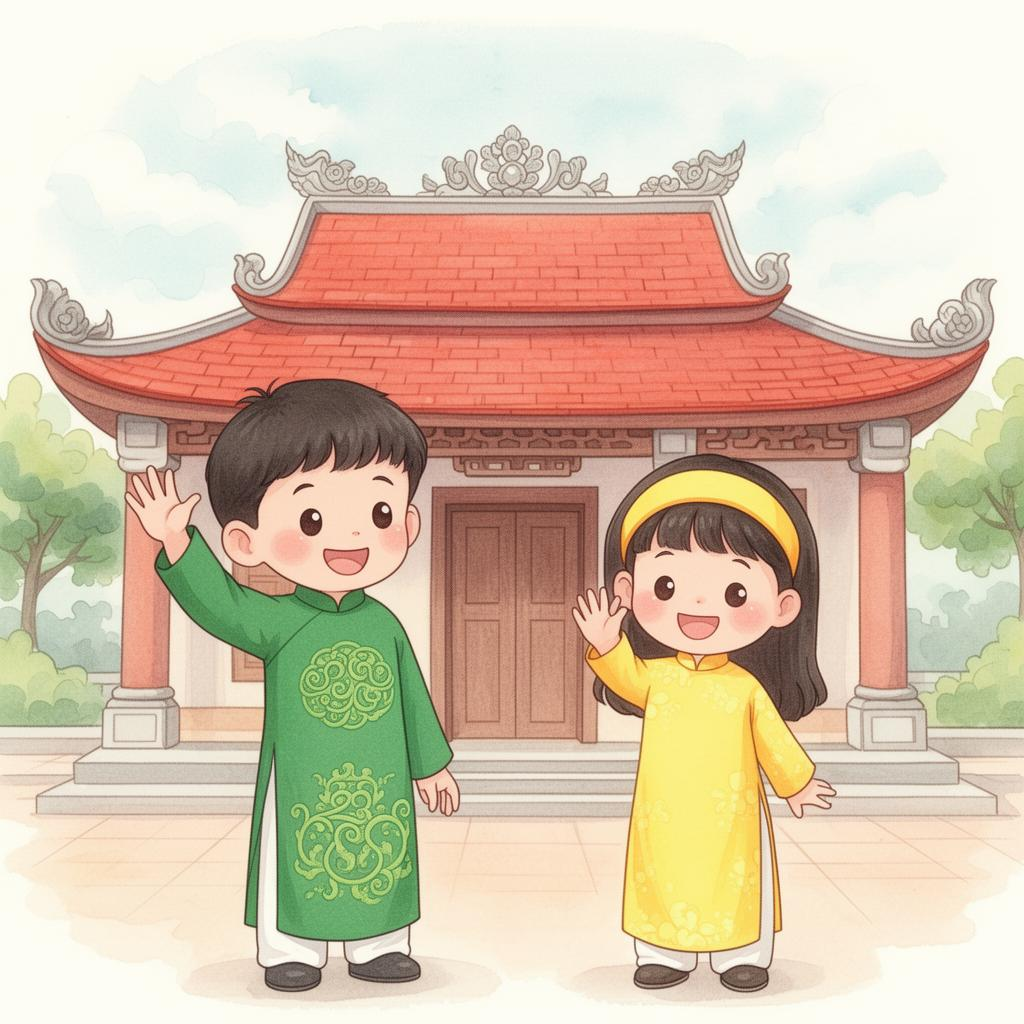
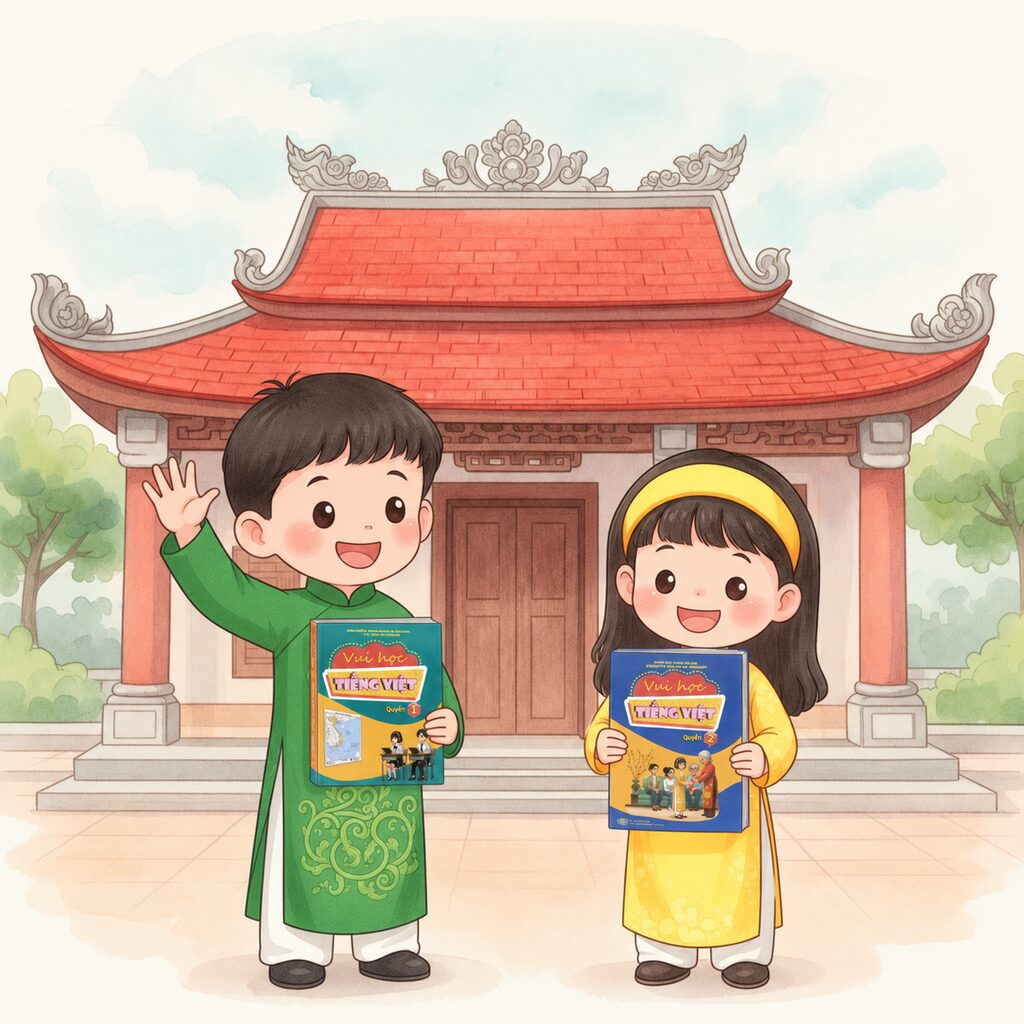
Refresh hero image and trim footer
Swap in the new áo dài illustration for the landing hero, promote
"Lời cảm ơn" to the section heading (dropping "Thân gửi các em"), and
remove the social links and newsletter column from the footer.

diff --git a/src/components/Footer.tsx b/src/components/Footer.tsx
@@ -1,4 +1,3 @@
-import { Facebook, Youtube, Twitter, Music2, Send } from "lucide-react";
 import boLogo from "@/assets/uy-ban.png";
 import cvcecLogo from "@/assets/cvcec.jpg";
 import { Logo } from "@/components/Logo";
@@ -9,42 +8,12 @@ export function Footer() {
   return (
     <footer className="mt-8 bg-navy text-white/70">
       <div className="py-12">
-        <div className="mx-auto grid max-w-7xl grid-cols-1 gap-10 px-4 sm:px-6 md:grid-cols-4">
+        <div className="mx-auto grid max-w-7xl grid-cols-1 gap-10 px-4 sm:px-6 md:grid-cols-3">
           <div className="flex flex-col gap-4">
             <Logo size="sm" light />
             <p className="text-sm leading-relaxed text-white/60">
               Nền tảng học tiếng Việt dành cho trẻ em Việt Nam tiểu học ở trong và ngoài nước.
             </p>
-            <div className="flex items-center gap-3">
-              <a
-                href="#"
-                aria-label="Facebook"
-                className="grid h-8 w-8 place-items-center rounded-full bg-white/10 text-white/80 transition-transform hover:scale-110 hover:bg-white/20"
-              >
-                <Facebook className="h-4 w-4" strokeWidth={2} />
-              </a>
-              <a
-                href="#"
-                aria-label="YouTube"
-                className="grid h-8 w-8 place-items-center rounded-full bg-white/10 text-white/80 transition-transform hover:scale-110 hover:bg-white/20"
-              >
-                <Youtube className="h-4 w-4" strokeWidth={2} />
-              </a>
-              <a
-                href="#"
-                aria-label="Twitter/X"
-                className="grid h-8 w-8 place-items-center rounded-full bg-white/10 text-white/80 transition-transform hover:scale-110 hover:bg-white/20"
-              >
-                <Twitter className="h-4 w-4" strokeWidth={2} />
-              </a>
-              <a
-                href="#"
-                aria-label="TikTok"
-                className="grid h-8 w-8 place-items-center rounded-full bg-white/10 text-white/80 transition-transform hover:scale-110 hover:bg-white/20"
-              >
-                <Music2 className="h-4 w-4" strokeWidth={2} />
-              </a>
-            </div>
             <div className="flex items-center gap-3">
               <img
                 src={boLogo}
@@ -85,25 +54,6 @@ export function Footer() {
             </ul>
           </div>
 
-          <div>
-            <h4 className="mb-2 font-display text-sm font-extrabold text-white">
-              Kết nối với chúng tôi
-            </h4>
-            <p className="mb-4 text-sm text-white/60">
-              Nhận tin tức và tài liệu mới nhất cho bé yêu của bạn.
-            </p>
-            <div className="flex flex-col gap-2 lg:flex-row">
-              <input
-                type="email"
-                placeholder="Nhập email của bạn"
-                className="w-full rounded-full border border-white/20 bg-white/10 px-4 py-2 text-sm text-white placeholder:text-white/40 focus:border-primary focus:outline-none lg:flex-1"
-              />
-              <button className="flex shrink-0 items-center justify-center gap-1.5 rounded-full bg-primary px-4 py-2 text-sm font-bold text-white transition-all hover:bg-primary/90">
-                <Send className="h-3.5 w-3.5" strokeWidth={2.5} />
-                <span>Đăng ký</span>
-              </button>
-            </div>
-          </div>
         </div>
       </div>
 

diff --git a/src/components/tabs/InfoTab.tsx b/src/components/tabs/InfoTab.tsx
@@ -115,12 +115,9 @@ export function InfoTab() {
             alt=""
             className="mx-auto mb-4 h-14 w-14 object-contain"
           />
-          <span className="inline-flex items-center gap-2 text-xs font-bold uppercase tracking-widest text-primary">
-            <Info className="h-4 w-4" strokeWidth={2.5} />
+          <h3 className="inline-flex items-center gap-2 font-display text-2xl font-extrabold text-navy sm:text-3xl">
+            <Info className="h-6 w-6 text-primary sm:h-7 sm:w-7" strokeWidth={2.5} />
             Lời cảm ơn
-          </span>
-          <h3 className="mt-2 font-display text-2xl font-extrabold text-navy sm:text-3xl">
-            Thân gửi các em
           </h3>
           <p className="mx-auto mt-4 max-w-2xl text-[15px] leading-relaxed text-muted-foreground sm:text-base">
             Ban quản lý dự án xin được gửi lời cảm ơn chân thành tới{" "}
